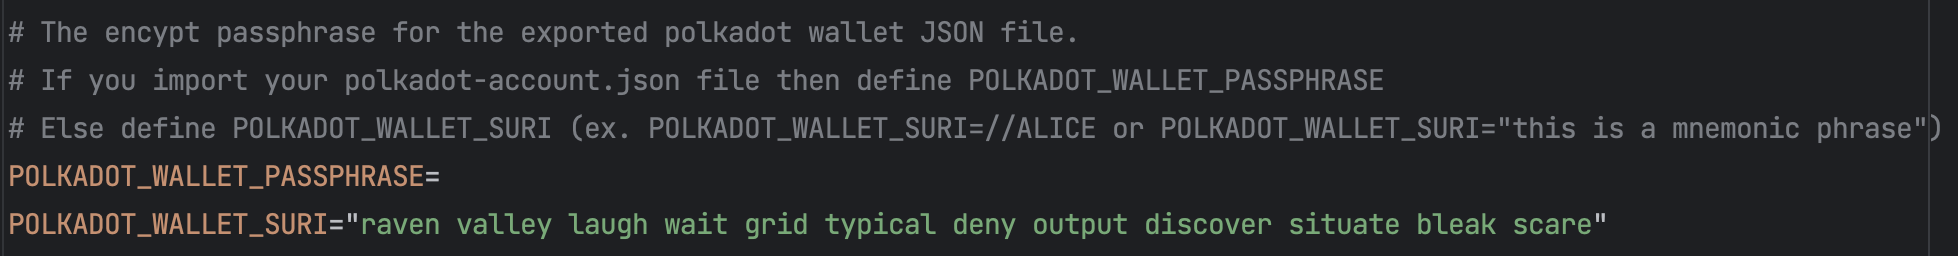
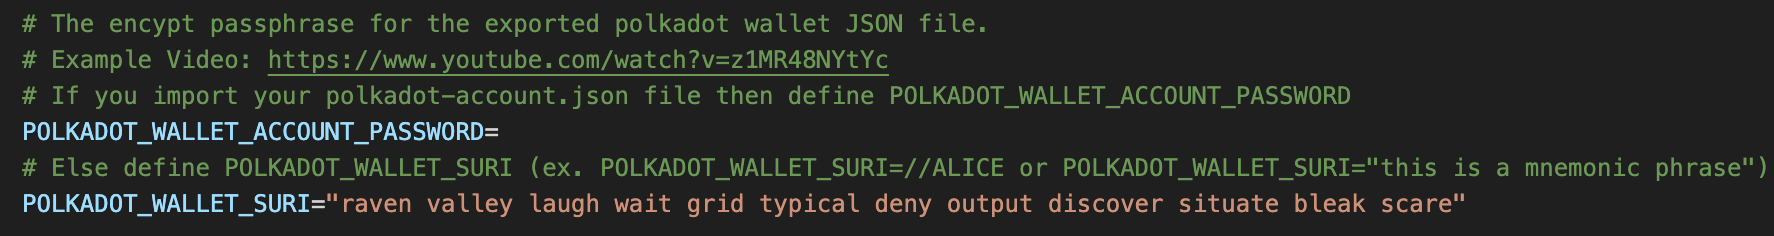
docs: updates

Changed region(s): [[0.0, 0.2076, 1.0, 0.7712], [0.0, 0.8008, 0.8371, 0.9195], [0.0, 0.0593, 0.5581, 0.178]]

diff --git a/GETTING_STARTED.md b/GETTING_STARTED.md
@@ -50,15 +50,16 @@ First you will need to install the [@phala/fn](https://www.npmjs.com/package/@ph
 Now create your first template with the CLI tool command:
 ```bash
 npx @phala/fn init userJourney
+# ? Please select one of the templates for your "userJourney" project: (Use arrow keys)
+# ❯ phat-contract-starter-kit. The Phat Contract Starter Kit
+#   lensapi-oracle-consumer-contract. Polygon Consumer Contract for LensAPI Oracle
 ```
-We currently have only one template. Just press enter to see something similar to the example below:
+Choose `phat-contract-starter-kit` template and press enter to see something similar to the example below:
 
 ```bash
 npx @phala/fn init userJourney
-# @phala/fn@0.1.5
-# Ok to proceed? (y) y
-# ? Please select one of the templates for your "userJourney" project: lensapi-oracle-consumer-contract. Polygon Consumer Contract for LensAPI Oracle
-# Downloading the template: https://github.com/Phala-Network/lensapi-oracle-consumer-contract... ✔
+# ? Please select one of the templates for your "userJourney" project: phat-contract-starter-kit. The Phat Contract Starter Kit
+# Downloading the template: https://github.com/Phala-Network/phat-contract-starter-kit... ✔
 # The project is created in /Users/hashwarlock/Projects/Phala/Temp/userJourney 🎉
 # Now run:
 #
@@ -78,7 +79,6 @@ ls
 # -rw-r--r--   1 hashwarlock  staff   227B Sep  6 15:32 .gitignore
 # -rw-r--r--   1 hashwarlock  staff    34K Sep  6 15:32 LICENSE
 # -rw-r--r--   1 hashwarlock  staff   8.9K Sep  6 15:32 README.md
-# drwxr-xr-x   5 hashwarlock  staff   160B Sep  6 15:32 abis
 # drwxr-xr-x   4 hashwarlock  staff   128B Sep  6 15:32 assets
 # drwxr-xr-x   5 hashwarlock  staff   160B Sep  6 15:32 contracts
 # -rw-r--r--   1 hashwarlock  staff   1.3K Sep  6 15:32 hardhat.config.ts
@@ -105,7 +105,7 @@ Here is what your Phala Profile account overview should look like:
 #### Option 1: Export Polkadot account as json file
 Go to your browser and click on the polkadot.js extension. Select your account and click "Export Account".
 ![](./assets/ExportAccount.png)
-Next, you will be prompted for your password before saving the file to your project directory. **Note** this is what will be set to [`POLKADOT_WALLET_PASSPHRASE`](./.env.local).
+Next, you will be prompted for your password before saving the file to your project directory. **Note** this is what will be set to [`POLKADOT_WALLET_ACCOUNT_PASSWORD`](./.env.local).
 ![](./assets/ExportTypePass.png)
 Make sure to save the file as `polkadot-account.json` in the root of your project directory.
 ![](./assets/SaveAccount.png)
@@ -367,7 +367,7 @@ yarn test-deploy
 # Done
 # ✨  Done in 8.20s.
 ```
-#### Verify Contract on Polygon Mumbai Testnet
+#### Verify Contract on Polygon Mumbai Testnet (Optional)
 Ensure to update the [`mumbai.arguments.ts`](./mumbai.arguments.ts) file with the constructor arguments used to instantiate the Consumer Contract. If you add additional parameters to the constructor function then make sure to update the `mumbai.arguments.ts` file.
 > **Note**: Your contract address will be different than `0x090E8fDC571d65459569BC87992C1026121DB955` when verifying your contract. Make sure to get your actual contract address from the console log output after executing `yarn test-deploy`.
 ```shell
@@ -429,6 +429,8 @@ Go to the [PoC5 Testnet Bricks UI](https://bricks-poc5.phala.network) Dashboard 
 
 #### Interact with Consumer Contract on Polygon Mumbai
 Test Consumer Contract on Mumbai with a few tests to check for malformed requests failures, successful requests, and set the attestor.
+
+**Please make sure your have set your attestor address in .env file `MUMBAI_PHALA_ORACLE_ATTESTOR=`**
 ```shell
 yarn test-set-attestor
 ```

diff --git a/src/JS_API_DOC.md b/src/JS_API_DOC.md
@@ -50,7 +50,6 @@ ls                                                                              
 # -rw-r--r--   1 hashwarlock  staff   227B Sep  6 15:32 .gitignore
 # -rw-r--r--   1 hashwarlock  staff    34K Sep  6 15:32 LICENSE
 # -rw-r--r--   1 hashwarlock  staff   8.9K Sep  6 15:32 README.md
-# drwxr-xr-x   5 hashwarlock  staff   160B Sep  6 15:32 abis
 # drwxr-xr-x   4 hashwarlock  staff   128B Sep  6 15:32 assets
 # drwxr-xr-x   5 hashwarlock  staff   160B Sep  6 15:32 contracts
 # -rw-r--r--   1 hashwarlock  staff   1.3K Sep  6 15:32 hardhat.config.ts
